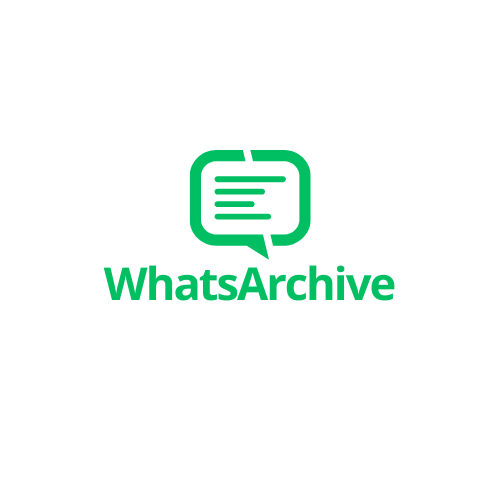
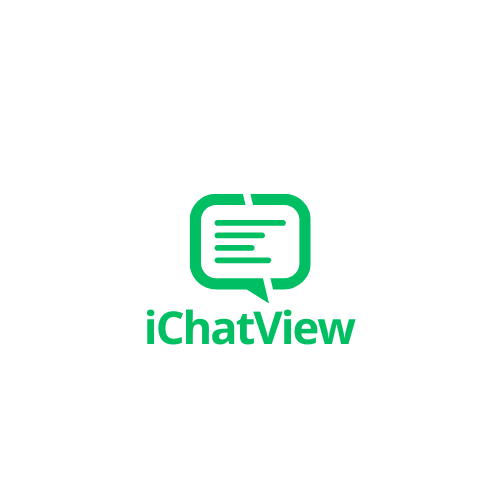
Update app configuration and branding

Changed region(s): [[0.21, 0.3, 0.81, 0.69]]

diff --git a/screens/HomeScreen.tsx b/screens/HomeScreen.tsx
@@ -174,7 +174,7 @@ const HomeScreen = ({ navigation }: { navigation: any }) => {
 
   return (
     <View style={[styles.container, { paddingTop: top + 10 }]}>
-      <Text style={styles.title}>WhatsArchive</Text>
+      <Text style={styles.title}>iChatView</Text>
 
       <View style={styles.uploadSection}>
         <Button color="#075E54" title="Upload Chat File (.txt)" onPress={handleUpload} disabled={isLoading} />
